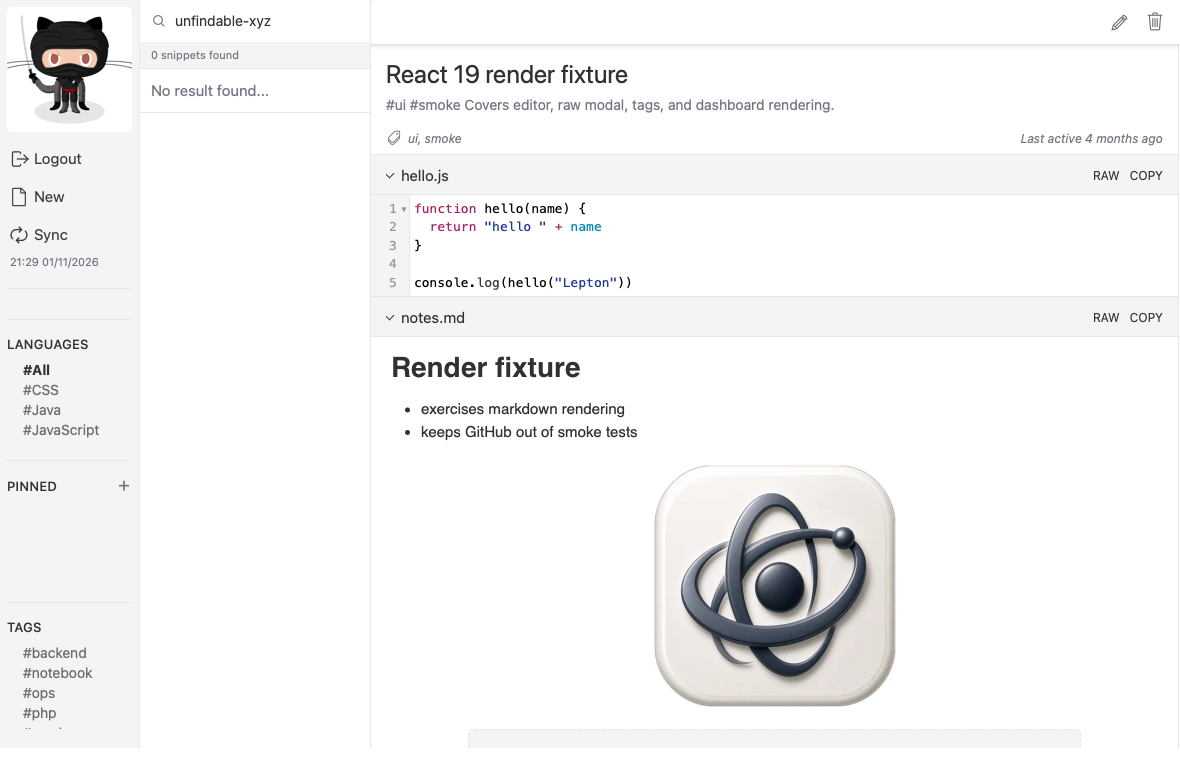
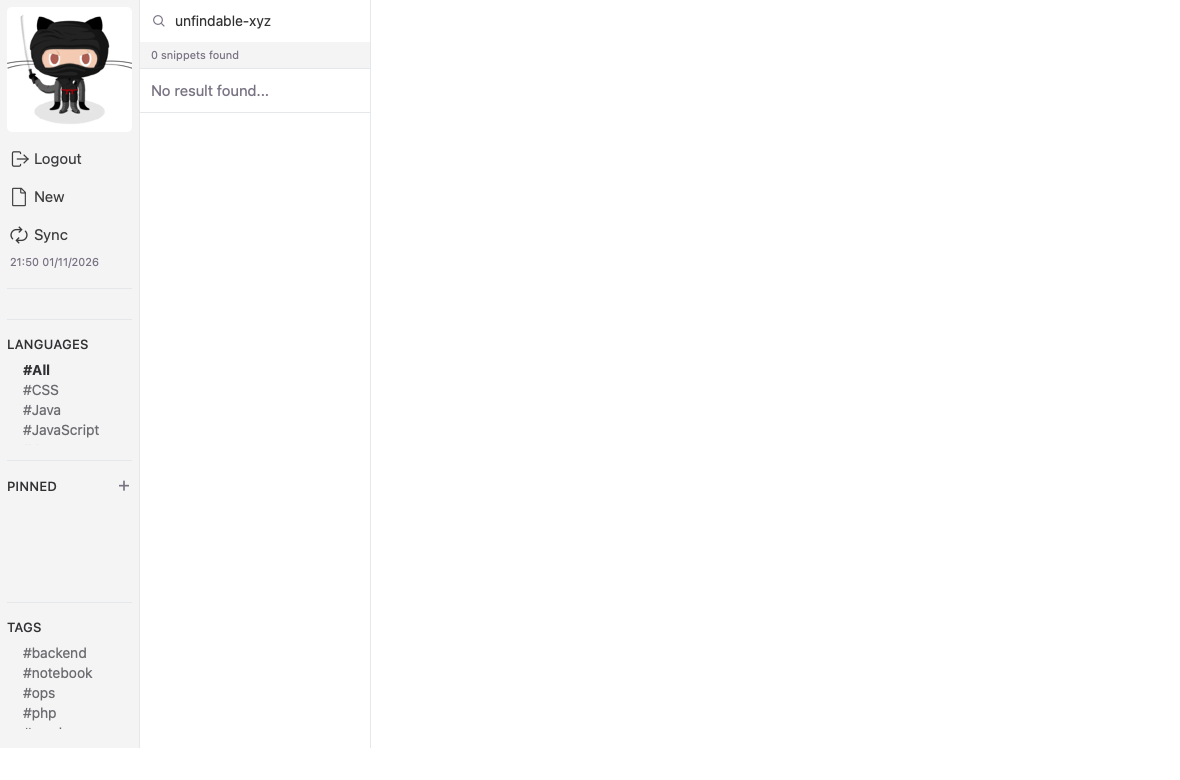
Hide snippet details when search has no results

diff --git a/prototypes/tauri/legacy/inlineSnippet.js b/prototypes/tauri/legacy/inlineSnippet.js
@@ -9,7 +9,7 @@ import Panel from '../../../app/containers/compatPanel'
 import DiscardConfirmation, { hasUnsavedForm } from './discardConfirmation'
 import { getInitialValuesKey } from '../../../app/containers/gistEditorForm/formState'
 import { editorActions, activateFormButton, lockEditorNavigation } from './editorToolbar'
-import { currentSearchQuery, subscribeSearchQuery, subscribeSearchSelection, searchRanges, highlightRenderedText } from './searchHighlights'
+import { currentSearchQuery, subscribeSearchQuery, subscribeSearchSelection, searchRanges, highlightRenderedText, matchingSearchResults } from './searchHighlights'
 import electronBridge from '../../../app/utilities/electronBridge'
 import { getLocale, t } from '../../../app/utilities/i18n'
 import { EDIT_SINGLE_GIST, getSnippetApi } from '../../../app/utilities/snippetApi'
@@ -367,7 +367,14 @@ class InlineSnippet extends BaseSnippet {
     if (!tree) return tree
     const draft = currentDrafts().get(this.props.activeGist)
     const rendered = this.renderInlineCode(tree, draft)
-    const content = React.cloneElement(rendered, { ref: node => { this.snippetRoot = node }, className: rendered.props.className + (draft ? ' inline-editing' : '') })
+    const noResults = Boolean(this.state.searchQuery.trim()) && matchingSearchResults(this.state.searchQuery, this.props.gists).length === 0
+    const content = React.cloneElement(rendered, {
+      ref: node => { this.snippetRoot = node },
+      className: rendered.props.className + (draft ? ' inline-editing' : ''),
+      style: { ...rendered.props.style, visibility: noResults ? 'hidden' : undefined },
+      'aria-hidden': noResults || undefined,
+      inert: noResults || undefined
+    })
     return <>{ content }<DiscardConfirmation show={ this.state.confirmDiscard } onKeepEditing={ () => this.setState({ confirmDiscard: false }) } onDiscard={ () => this.discardEditor() } /></>
   }
 }

diff --git a/prototypes/tauri/legacy/embeddedSearch.js b/prototypes/tauri/legacy/embeddedSearch.js
@@ -5,7 +5,7 @@ import OriginalNavigationPanelDetails from '../../../app/containers/navigationPa
 import SearchIndex from '../../../app/utilities/search'
 import electronBridge from '../../../app/utilities/electronBridge'
 import { descriptionParser } from '../../../app/utilities/parser'
-import { currentSearchQuery, setSearchQuery, announceSearchSelection } from './searchHighlights'
+import { currentSearchQuery, setSearchQuery, announceSearchSelection, matchingSearchResults } from './searchHighlights'
 import { createDefaultGistFilters } from '../../../app/utilities/gistFilters'
 import { t } from '../../../app/utilities/i18n'
 import { selectGist, fetchSingleGist, updatescrollRequestStatus, updateGistFilters, updateFileExpandStatus } from '../../../app/actions'
@@ -38,16 +38,7 @@ class EmbeddedSearch extends BaseNavigationPanelDetails {
   }
 
   searchResults () {
-    const query = this.state.query.trim()
-    if (!query) return []
-    if (!this.cachedSearch || this.cachedSearch.query !== query || this.cachedSearch.gists !== this.props.gists) {
-      this.cachedSearch = {
-        query,
-        gists: this.props.gists,
-        results: SearchIndex.fuseSearch(query).filter(result => this.props.gists[result.id])
-      }
-    }
-    return this.cachedSearch.results
+    return matchingSearchResults(this.state.query, this.props.gists)
   }
 
   selectSearchResult (id) {

diff --git a/prototypes/tauri/legacy/searchHighlights.js b/prototypes/tauri/legacy/searchHighlights.js
@@ -1,4 +1,7 @@
+import SearchIndex from '../../../app/utilities/search'
+
 let query = ''
+let cachedResults
 const listeners = new Set()
 const selectionListeners = new Set()
 
@@ -19,6 +22,15 @@ export function announceSearchSelection (id) { selectionListeners.forEach(listen
 export function subscribeSearchSelection (listener) {
   selectionListeners.add(listener)
   return () => selectionListeners.delete(listener)
+}
+
+export function matchingSearchResults (input, gists) {
+  const trimmed = input.trim()
+  if (!trimmed) return []
+  if (!cachedResults || cachedResults.query !== trimmed || cachedResults.gists !== gists) {
+    cachedResults = { query: trimmed, gists, results: SearchIndex.fuseSearch(trimmed).filter(result => gists[result.id]) }
+  }
+  return cachedResults.results
 }
 
 // Match the exact, case-insensitive tokens used by the search index.
